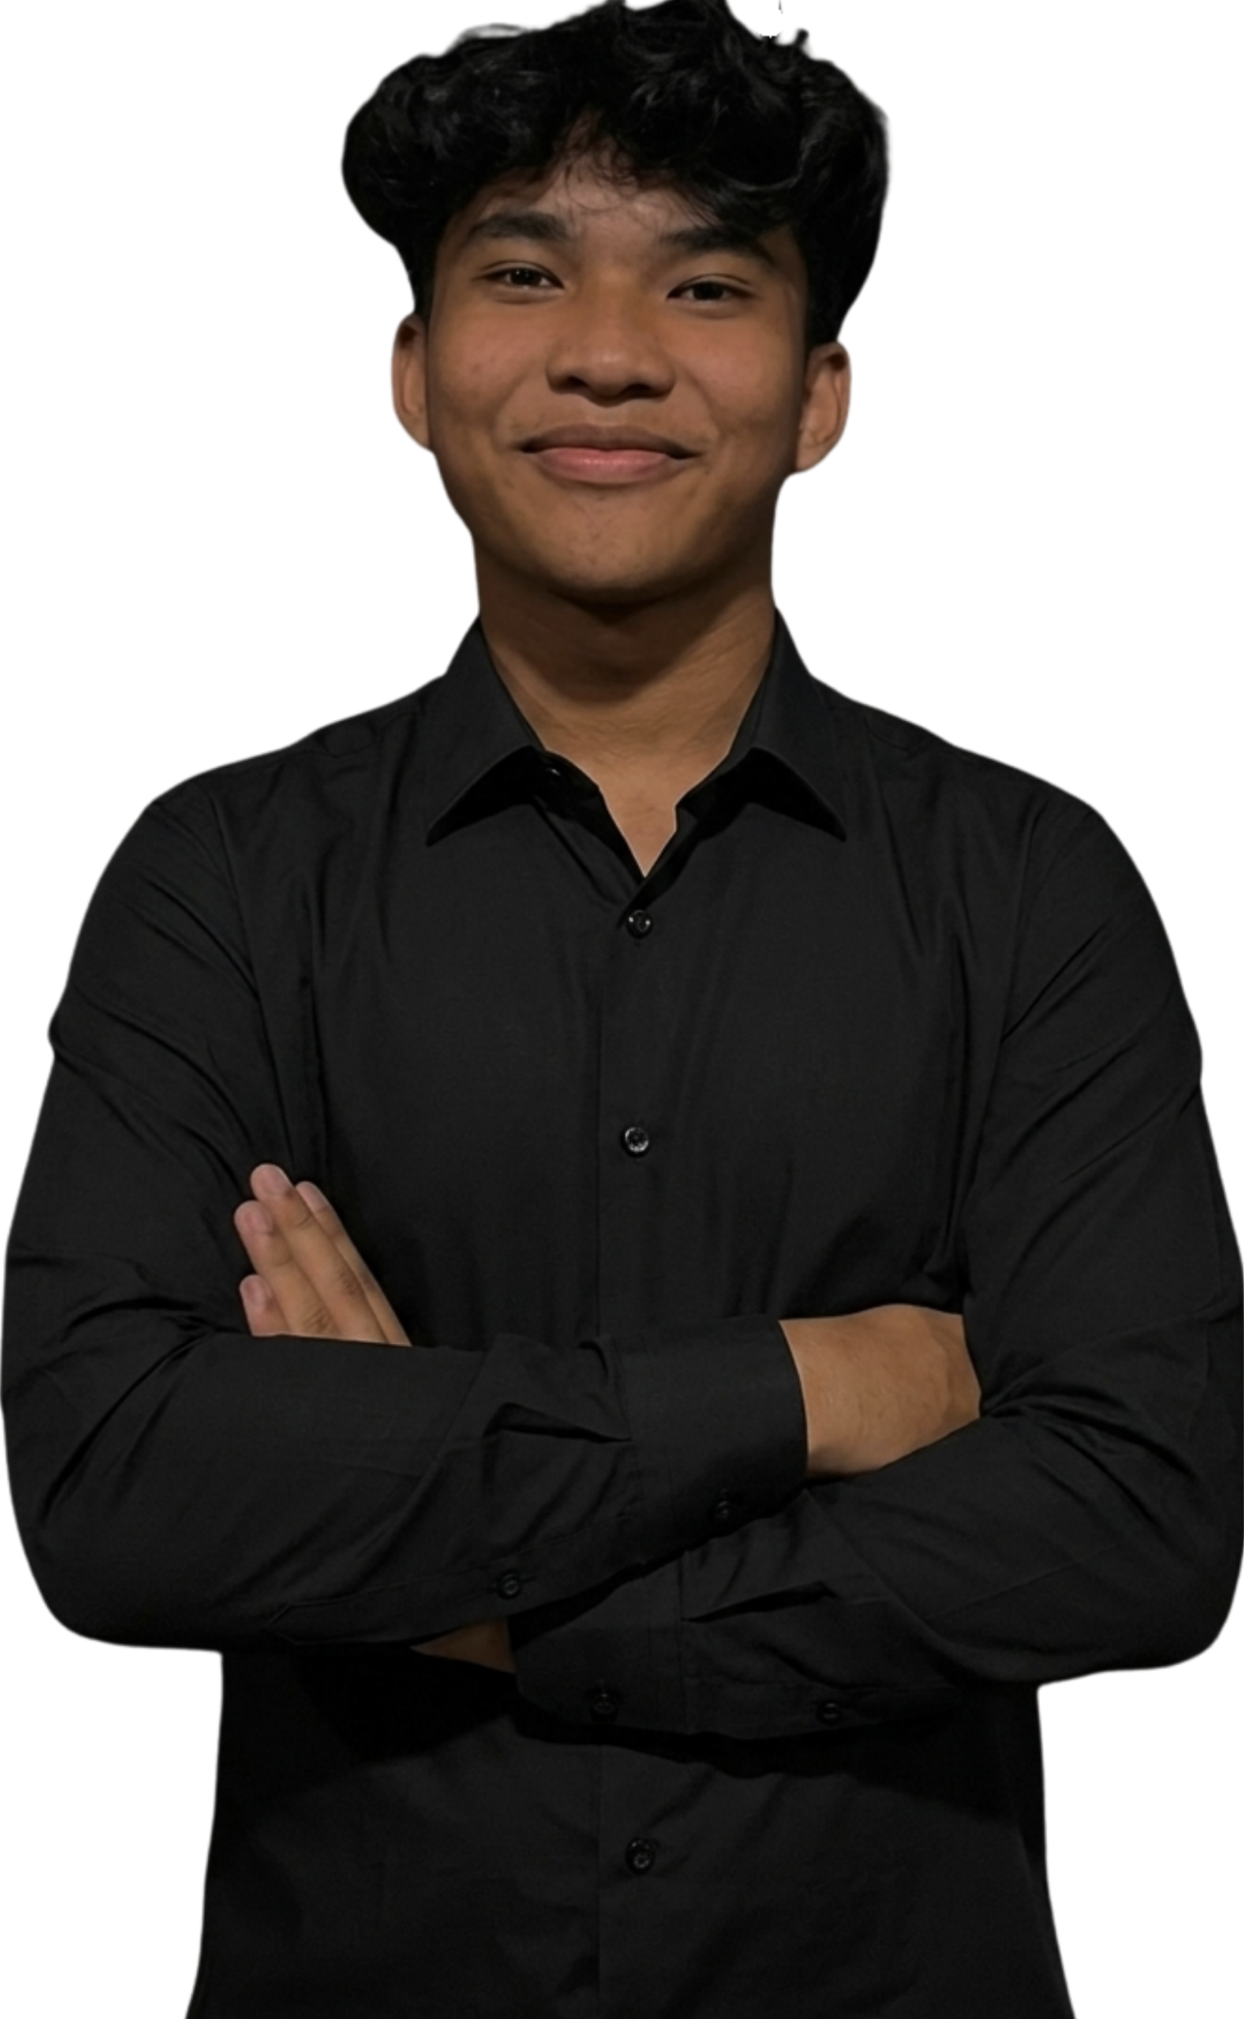
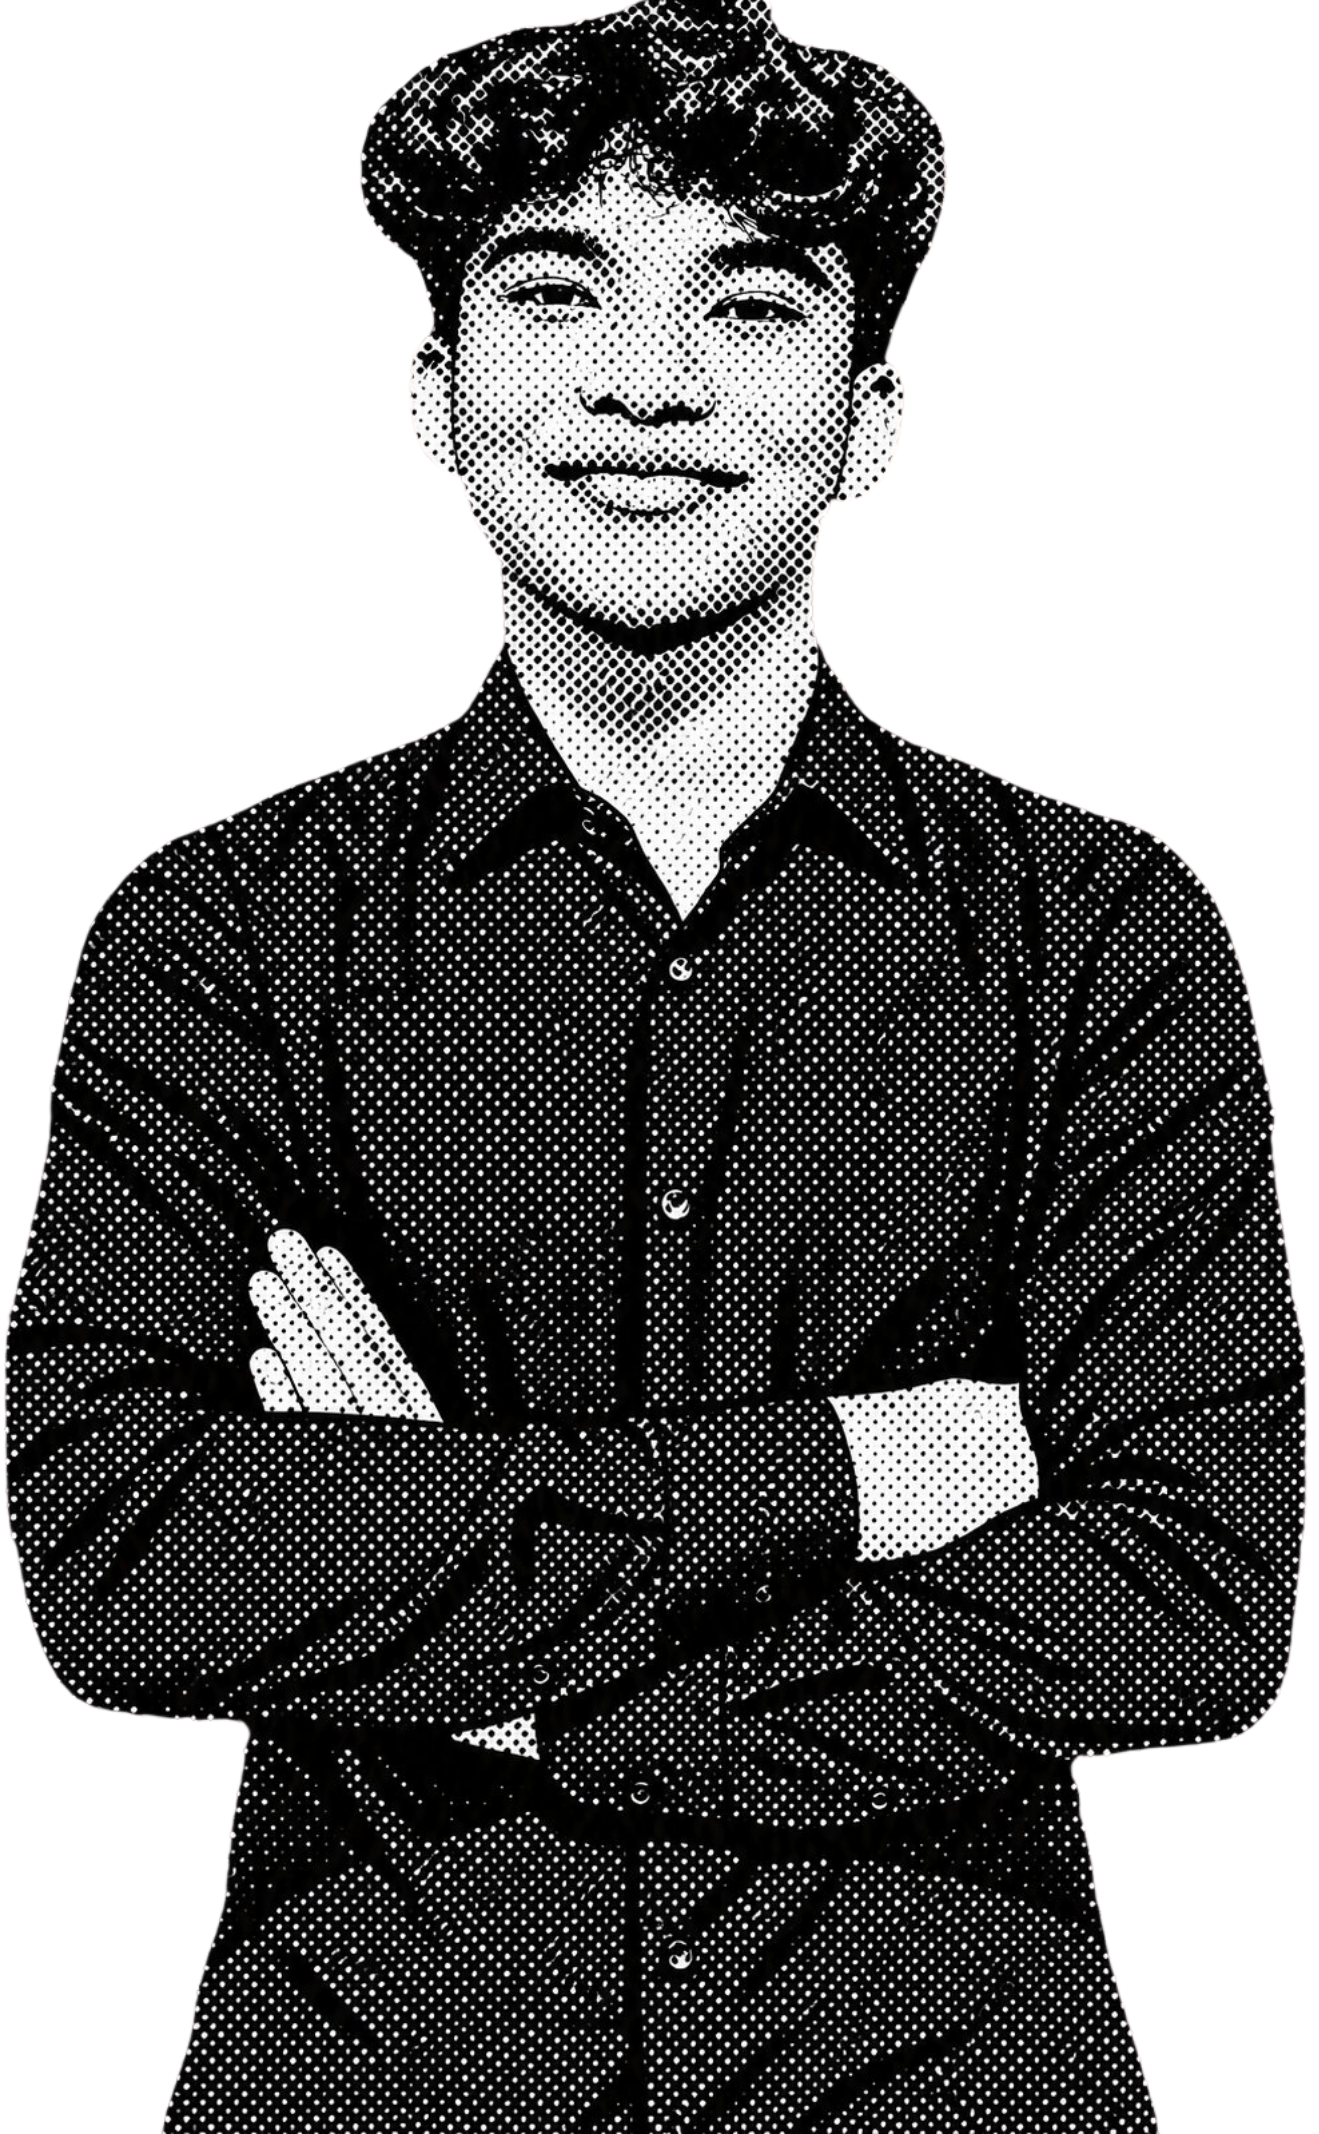
portfolio

Changed region(s): [[0.0, 0.0, 1.0, 1.0]]

diff --git a/components/About.tsx b/components/About.tsx
@@ -1,16 +1,58 @@
 "use client";
 
-import React, { useState } from "react";
+import React, { useState, useRef, useCallback } from "react";
 import Image from "next/image";
 import { Language, personalInfo } from "@/data/portfolio-data";
 import { Icons } from "./icons";
 
 interface AboutProps {
   lang: Language;
+  isDark?: boolean;
 }
 
-export const About: React.FC<AboutProps> = ({ lang }) => {
+export const About: React.FC<AboutProps> = ({ lang, isDark = true }) => {
   const [copiedEmail, setCopiedEmail] = useState(false);
+
+  // ── Interactive 3D Tilt & Direct Cursor Reaction on Image ──
+  const photoRef = useRef<HTMLDivElement>(null);
+  const [tilt, setTilt] = useState({ rotateX: 0, rotateY: 0, spotX: 50, spotY: 50, isHovered: false });
+
+  const handleMouseMove = useCallback((e: React.MouseEvent<HTMLDivElement>) => {
+    const el = photoRef.current;
+    if (!el) return;
+    const rect = el.getBoundingClientRect();
+    const x = e.clientX - rect.left;
+    const y = e.clientY - rect.top;
+
+    const centerX = rect.width / 2;
+    const centerY = rect.height / 2;
+
+    // Calculate rotation (-12deg to +12deg)
+    const rotateX = -((y - centerY) / centerY) * 10;
+    const rotateY = ((x - centerX) / centerX) * 10;
+
+    // Light spotlight percentage
+    const spotX = (x / rect.width) * 100;
+    const spotY = (y / rect.height) * 100;
+
+    setTilt({
+      rotateX,
+      rotateY,
+      spotX,
+      spotY,
+      isHovered: true,
+    });
+  }, []);
+
+  const handleMouseLeave = useCallback(() => {
+    setTilt({
+      rotateX: 0,
+      rotateY: 0,
+      spotX: 50,
+      spotY: 50,
+      isHovered: false,
+    });
+  }, []);
 
   const handleCopyEmail = () => {
     navigator.clipboard.writeText(personalInfo.contact.email);
@@ -20,66 +62,105 @@ export const About: React.FC<AboutProps> = ({ lang }) => {
 
   return (
     <section id="about" className="py-20 max-w-7xl mx-auto px-4 sm:px-6 lg:px-8">
-      {/* Header Frameless — Monochrome */}
-      <div className="flex items-center gap-3 mb-10">
+      {/* ── Section Header ── */}
+      <div className="flex items-center gap-3 mb-12">
         <span className="font-mono text-xs sm:text-sm font-bold c-text-muted tracking-wider">
           01.
         </span>
         <h2 className="text-xs sm:text-sm font-bold uppercase tracking-[0.25em] c-text-main font-mono">
           {lang === "id" ? "TENTANG SAYA" : "ABOUT ME"}
         </h2>
-        <div className="h-[1px] flex-grow c-bg-surface ml-2" style={{ backgroundColor: "var(--surface-border)" }} />
+        <div
+          className="h-[1px] flex-grow ml-2"
+          style={{ backgroundColor: "var(--surface-border)" }}
+        />
       </div>
 
-      {/* Konten Utama: 2 Kolom */}
-      <div className="flex flex-col lg:flex-row items-center lg:items-start gap-10 lg:gap-16">
+      {/* ── Main Layout: 2 Columns ── */}
+      <div className="flex flex-col lg:flex-row items-center lg:items-start gap-12 lg:gap-20">
         
-        {/* Kolom Kiri: Foto */}
-        <div className="w-full sm:w-[360px] lg:w-[400px] flex-shrink-0 flex flex-col items-center">
-          <div className="relative w-full max-w-[340px] sm:max-w-none">
-            {/* Ambient Glow */}
+        {/* ════════════════════════════════════════════
+            KOLOM KIRI: FOTO REAL (TANPA GRID/BOX, EFEK INTERAKTIF LANGSUNG DI FOTO)
+        ════════════════════════════════════════════ */}
+        <div className="w-full sm:w-[380px] lg:w-[420px] flex-shrink-0 flex flex-col items-center">
+          <div className="relative w-full max-w-[360px] sm:max-w-none select-none">
+            
+            {/* Foto Wrapper dengan Efek Interaktif 3D & Spotlight Langsung pada Gambar */}
             <div
-              className="absolute -inset-4 rounded-3xl opacity-20 blur-2xl pointer-events-none"
+              ref={photoRef}
+              onMouseMove={handleMouseMove}
+              onMouseLeave={handleMouseLeave}
+              className="relative w-full aspect-[3/4] cursor-pointer"
               style={{
-                background: "radial-gradient(circle, var(--text-main) 0%, transparent 80%)",
-              }}
-            />
-
-            {/* Container Foto */}
-            <div
-              className="relative w-full aspect-[4/5] rounded-2xl overflow-hidden shadow-2xl"
-              style={{
-                position: "relative",
-                border: "1px solid var(--surface-border)",
+                perspective: "1000px",
               }}
             >
-              <Image
-                src="/images/daniel.png"
-                alt="Daniel Sinurat"
-                fill
-                priority
-                sizes="(max-width: 640px) 100vw, (max-width: 1024px) 360px, 400px"
-                className="object-cover object-center grayscale hover:grayscale-0 hover:scale-105 transition-all duration-500 ease-out"
-              />
+              {/* Inner 3D Container — Tanpa border kotak, tanpa grid */}
+              <div
+                className="relative w-full h-full rounded-2xl overflow-hidden transition-transform duration-200 ease-out"
+                style={{
+                  transform: tilt.isHovered
+                    ? `rotateX(${tilt.rotateX}deg) rotateY(${tilt.rotateY}deg) scale3d(1.03, 1.03, 1.03)`
+                    : "rotateX(0deg) rotateY(0deg) scale3d(1, 1, 1)",
+                  transition: tilt.isHovered ? "transform 0.1s ease-out" : "transform 0.6s cubic-bezier(0.34, 1.56, 0.64, 1)",
+                  transformStyle: "preserve-3d",
+                }}
+              >
+                {/* Foto Real Daniel Sinurat */}
+                <Image
+                  src="/images/daniel.png"
+                  alt="Daniel Sinurat"
+                  fill
+                  priority
+                  sizes="(max-width: 640px) 100vw, (max-width: 1024px) 380px, 420px"
+                  className="object-cover object-top filter grayscale contrast-110 hover:contrast-125 transition-all duration-500 ease-out"
+                />
+
+                {/* Efek Spotlight & Halftone Light Flare Langsung di Atas Gambar Mengikuti Cursor */}
+                <div
+                  className="absolute inset-0 pointer-events-none transition-opacity duration-300"
+                  style={{
+                    opacity: tilt.isHovered ? 1 : 0,
+                    background: isDark
+                      ? `radial-gradient(circle 180px at ${tilt.spotX}% ${tilt.spotY}%, rgba(255, 255, 255, 0.22) 0%, rgba(255, 255, 255, 0.05) 50%, transparent 80%)`
+                      : `radial-gradient(circle 180px at ${tilt.spotX}% ${tilt.spotY}%, rgba(0, 0, 0, 0.15) 0%, rgba(0, 0, 0, 0.04) 50%, transparent 80%)`,
+                    mixBlendMode: isDark ? "screen" : "multiply",
+                  }}
+                />
+
+                {/* Subtle Dynamic Halftone Screen Overlay — Aktif interaktif saat hover */}
+                <div
+                  className="absolute inset-0 pointer-events-none transition-opacity duration-500"
+                  style={{
+                    opacity: tilt.isHovered ? 0.25 : 0.08,
+                    backgroundImage: isDark
+                      ? "radial-gradient(circle, #FFFFFF 1.2px, transparent 1.2px)"
+                      : "radial-gradient(circle, #000000 1.2px, transparent 1.2px)",
+                    backgroundSize: "6px 6px",
+                    mixBlendMode: "overlay",
+                  }}
+                />
+              </div>
             </div>
 
-            {/* Label Nama di Bawah Foto */}
-            <div className="mt-4 flex items-center justify-between px-1">
+            {/* Nama, Role & Social Icons di Bawah Foto (Tanpa Box/Grid) */}
+            <div className="mt-5 flex items-center justify-between px-1">
               <div>
-                <h3 className="font-bold text-base c-text-main tracking-wide font-stencil">
+                <h3 className="font-extrabold text-base sm:text-lg c-text-main tracking-wider font-stencil uppercase">
                   DANIEL SINURAT
                 </h3>
-                <p className="text-xs c-text-muted font-mono font-semibold">
+                <p className="text-xs c-text-muted font-mono font-semibold mt-0.5">
                   Web Developer &bull; IoT Specialist
                 </p>
               </div>
+
+              {/* Social Badges Bersih Tanpa Polkadot Luar */}
               <div className="flex items-center gap-2">
                 <a
                   href={personalInfo.contact.github}
                   target="_blank"
                   rel="noopener noreferrer"
-                  className="p-2 rounded-lg c-text-muted transition-colors"
-                  style={{}}
+                  className="p-2.5 rounded-xl transition-all duration-300 hover:scale-110 c-btn-surface border"
                   title="GitHub"
                 >
                   <Icons.github className="w-4 h-4" />
@@ -88,20 +169,23 @@ export const About: React.FC<AboutProps> = ({ lang }) => {
                   href={personalInfo.contact.linkedin}
                   target="_blank"
                   rel="noopener noreferrer"
-                  className="p-2 rounded-lg c-text-muted transition-colors"
+                  className="p-2.5 rounded-xl transition-all duration-300 hover:scale-110 c-btn-surface border"
                   title="LinkedIn"
                 >
                   <Icons.linkedin className="w-4 h-4" />
                 </a>
               </div>
             </div>
+
           </div>
         </div>
 
-        {/* Kolom Kanan: Teks */}
-        <div className="flex-1 flex flex-col justify-center">
+        {/* ════════════════════════════════════════════
+            KOLOM KANAN: TEKS BIOGRAFI & TECH STACK
+        ════════════════════════════════════════════ */}
+        <div className="flex-1 flex flex-col justify-center pt-2">
           
-          {/* Headline */}
+          {/* Headline Tegas & Modern */}
           <h3 className="text-2xl sm:text-3xl lg:text-4xl font-extrabold tracking-tight c-text-main leading-snug">
             {lang === "id" ? (
               <>
@@ -116,7 +200,7 @@ export const About: React.FC<AboutProps> = ({ lang }) => {
             )}
           </h3>
 
-          {/* Paragraf Bio */}
+          {/* Paragraf Bio Singkat & Padat */}
           <div className="mt-6 space-y-4 text-sm sm:text-base c-text-muted leading-relaxed font-normal">
             <p>
               {lang === "id" ? (
@@ -161,7 +245,7 @@ export const About: React.FC<AboutProps> = ({ lang }) => {
               {["Laravel", "React", "Next.js", "PHP", "MySQL", "ESP32", "n8n", "Tailwind CSS"].map((tech) => (
                 <span
                   key={tech}
-                  className="px-3 py-1.5 rounded-lg text-xs font-mono font-bold c-text-main"
+                  className="px-3.5 py-1.5 rounded-lg text-xs font-mono font-bold c-text-main transition-transform hover:scale-105"
                   style={{
                     backgroundColor: "var(--surface)",
                     border: "1px solid var(--surface-border)",
@@ -178,7 +262,7 @@ export const About: React.FC<AboutProps> = ({ lang }) => {
             <a
               href="/cv/CV_Daniel_Sinurat.pdf"
               download="CV_Daniel_Sinurat.pdf"
-              className="inline-flex items-center gap-2 px-5 py-3 rounded-xl font-bold text-xs sm:text-sm tracking-wide shadow-lg transition-all hover:scale-105 c-btn-primary"
+              className="inline-flex items-center gap-2 px-6 py-3.5 rounded-xl font-bold text-xs sm:text-sm tracking-wide shadow-lg transition-all hover:scale-105 c-btn-primary"
             >
               <Icons.download className="w-4 h-4" />
               <span>{lang === "id" ? "Unduh CV (PDF)" : "Download CV (PDF)"}</span>
@@ -190,7 +274,7 @@ export const About: React.FC<AboutProps> = ({ lang }) => {
               )}`}
               target="_blank"
               rel="noopener noreferrer"
-              className="inline-flex items-center gap-2 px-5 py-3 rounded-xl font-bold text-xs sm:text-sm transition-all hover:scale-105 c-btn-surface border"
+              className="inline-flex items-center gap-2 px-6 py-3.5 rounded-xl font-bold text-xs sm:text-sm transition-all hover:scale-105 c-btn-surface border"
             >
               <Icons.whatsapp className="w-4 h-4" />
               <span>WhatsApp</span>
@@ -198,7 +282,7 @@ export const About: React.FC<AboutProps> = ({ lang }) => {
 
             <button
               onClick={handleCopyEmail}
-              className="inline-flex items-center gap-2 px-4 py-3 rounded-xl font-bold text-xs sm:text-sm transition-all cursor-pointer c-btn-surface border"
+              className="inline-flex items-center gap-2 px-5 py-3.5 rounded-xl font-bold text-xs sm:text-sm transition-all cursor-pointer c-btn-surface border"
             >
               <Icons.mail className="w-4 h-4" />
               <span>

diff --git a/app/page.tsx b/app/page.tsx
@@ -110,7 +110,7 @@ export default function HomePage() {
         <ContentNavigator lang={lang} isDark={isDark} />
 
         {/* 3. About / Introduction (Matching Image 2) */}
-        <About lang={lang} />
+        <About lang={lang} isDark={isDark} />
 
         {/* 4. Skills & Tech Stack */}
         <Skills lang={lang} />
